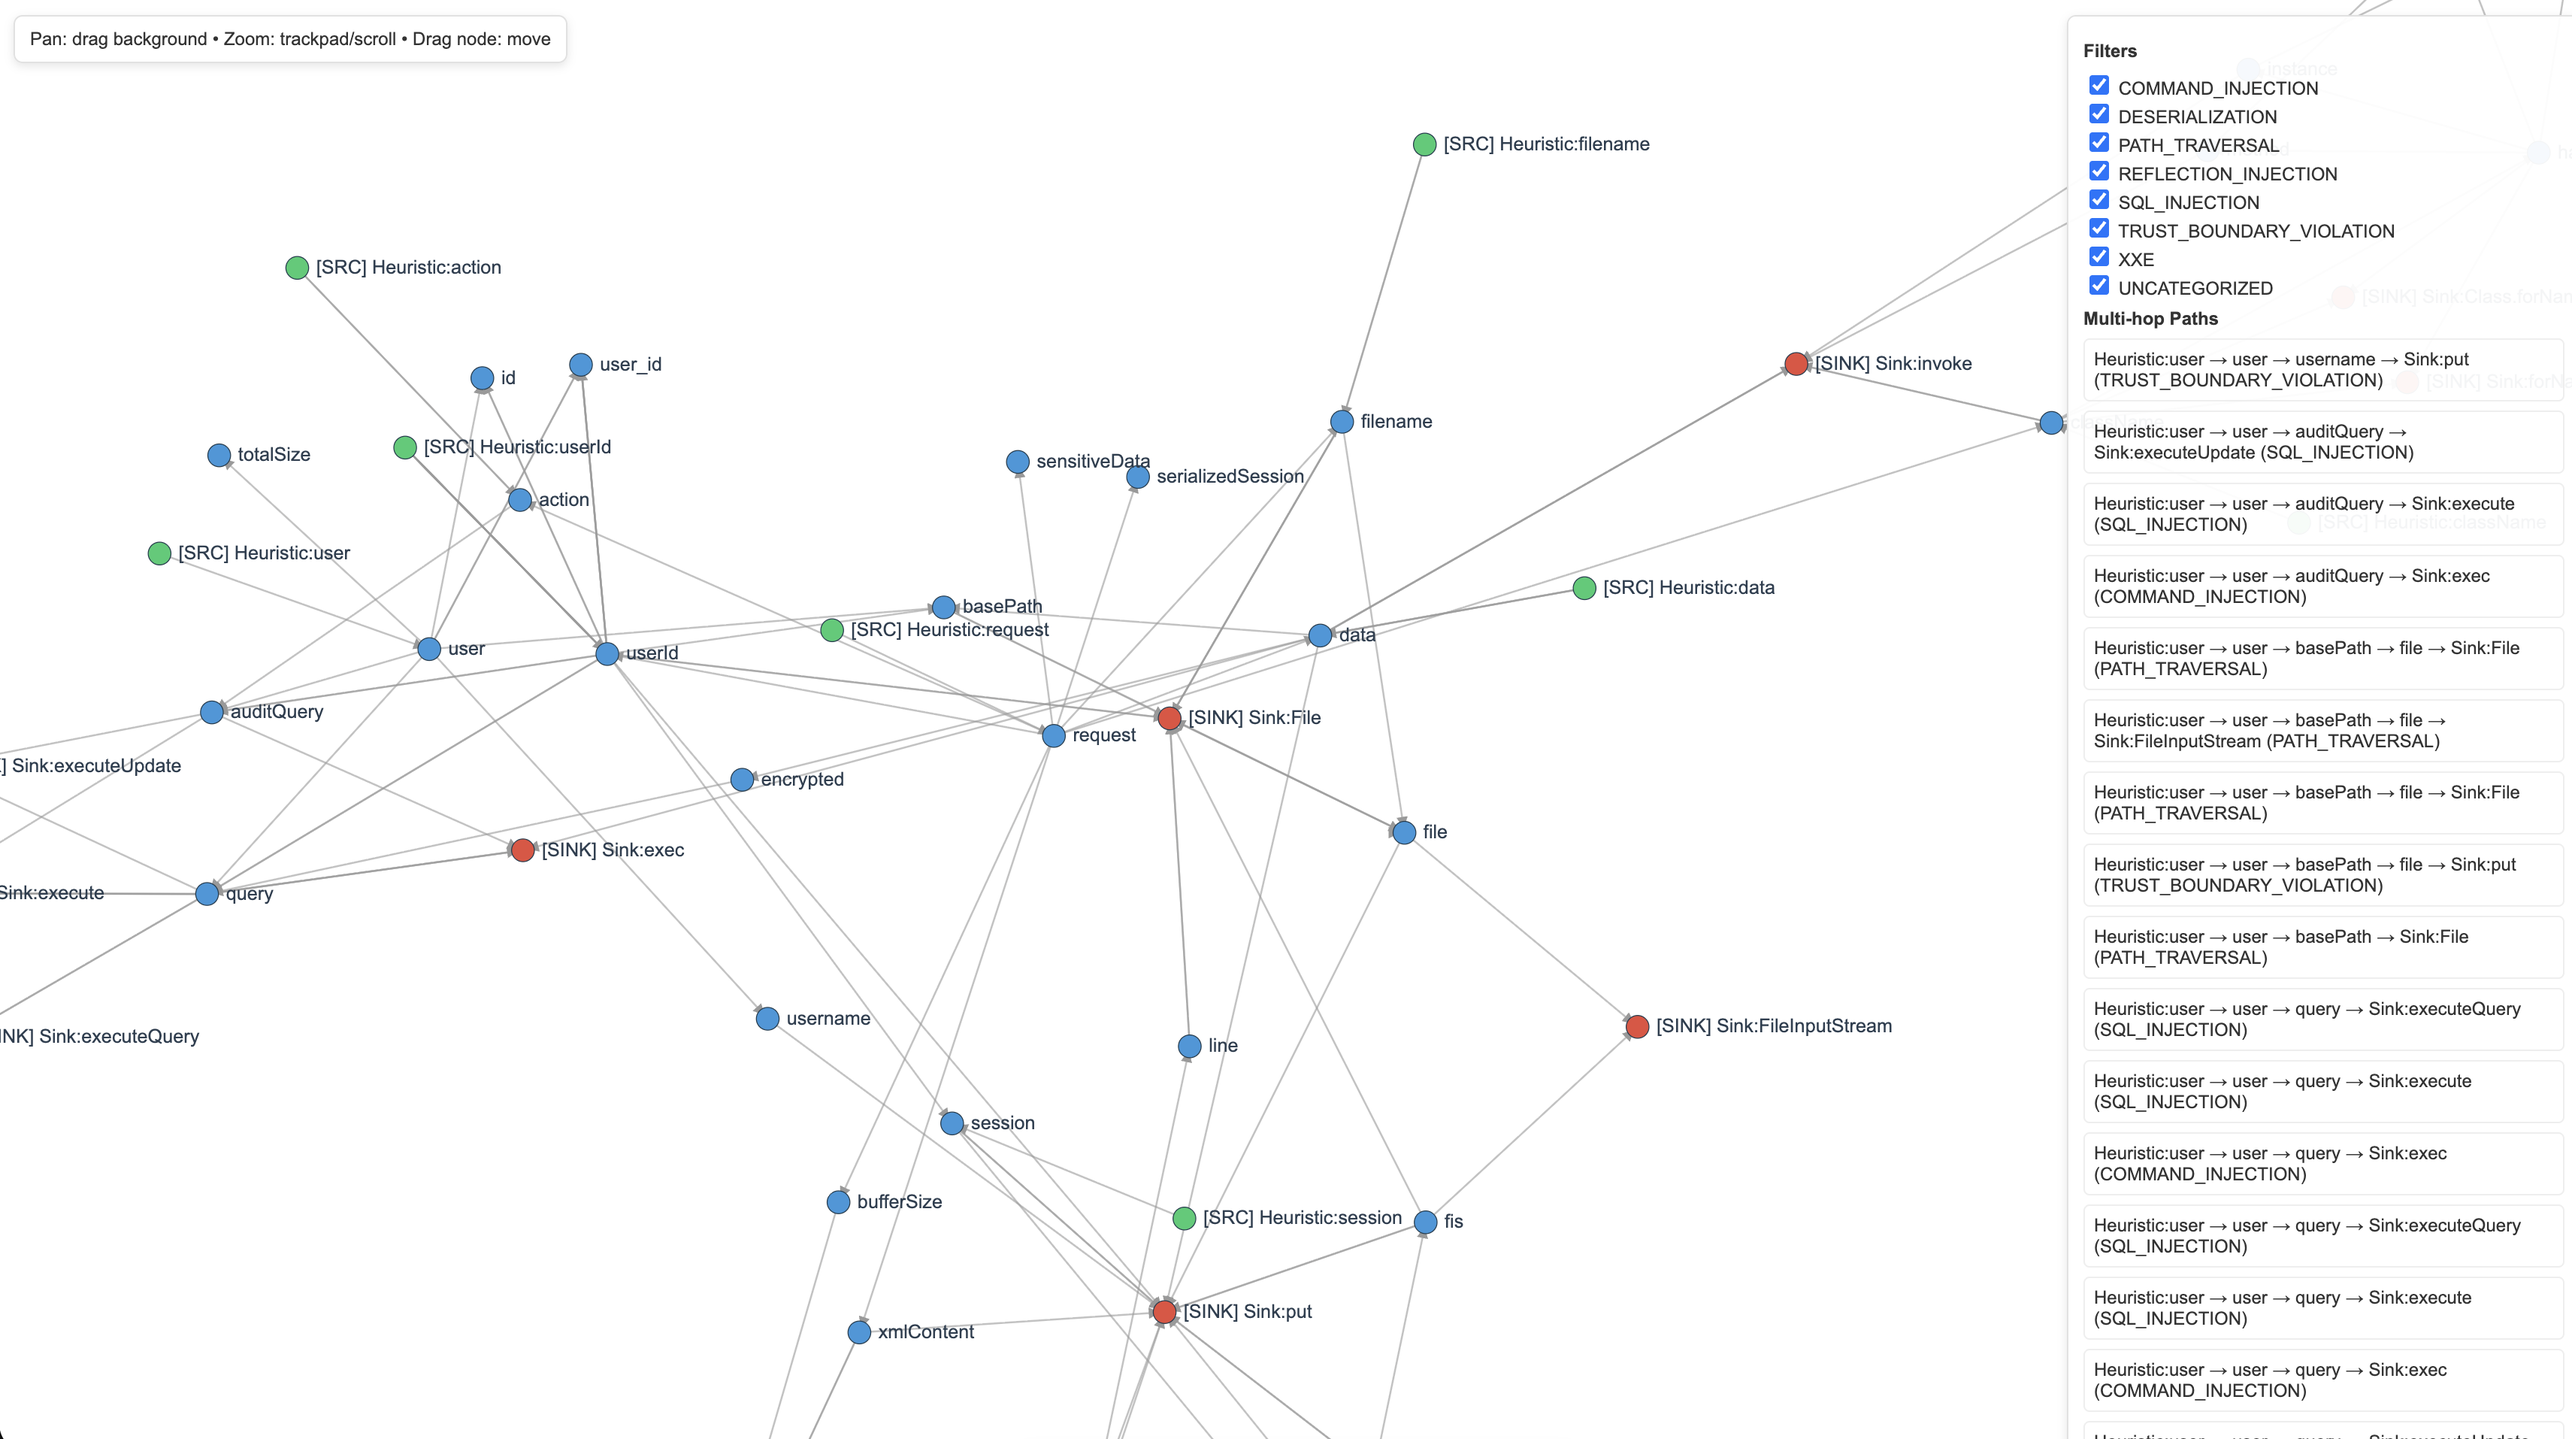
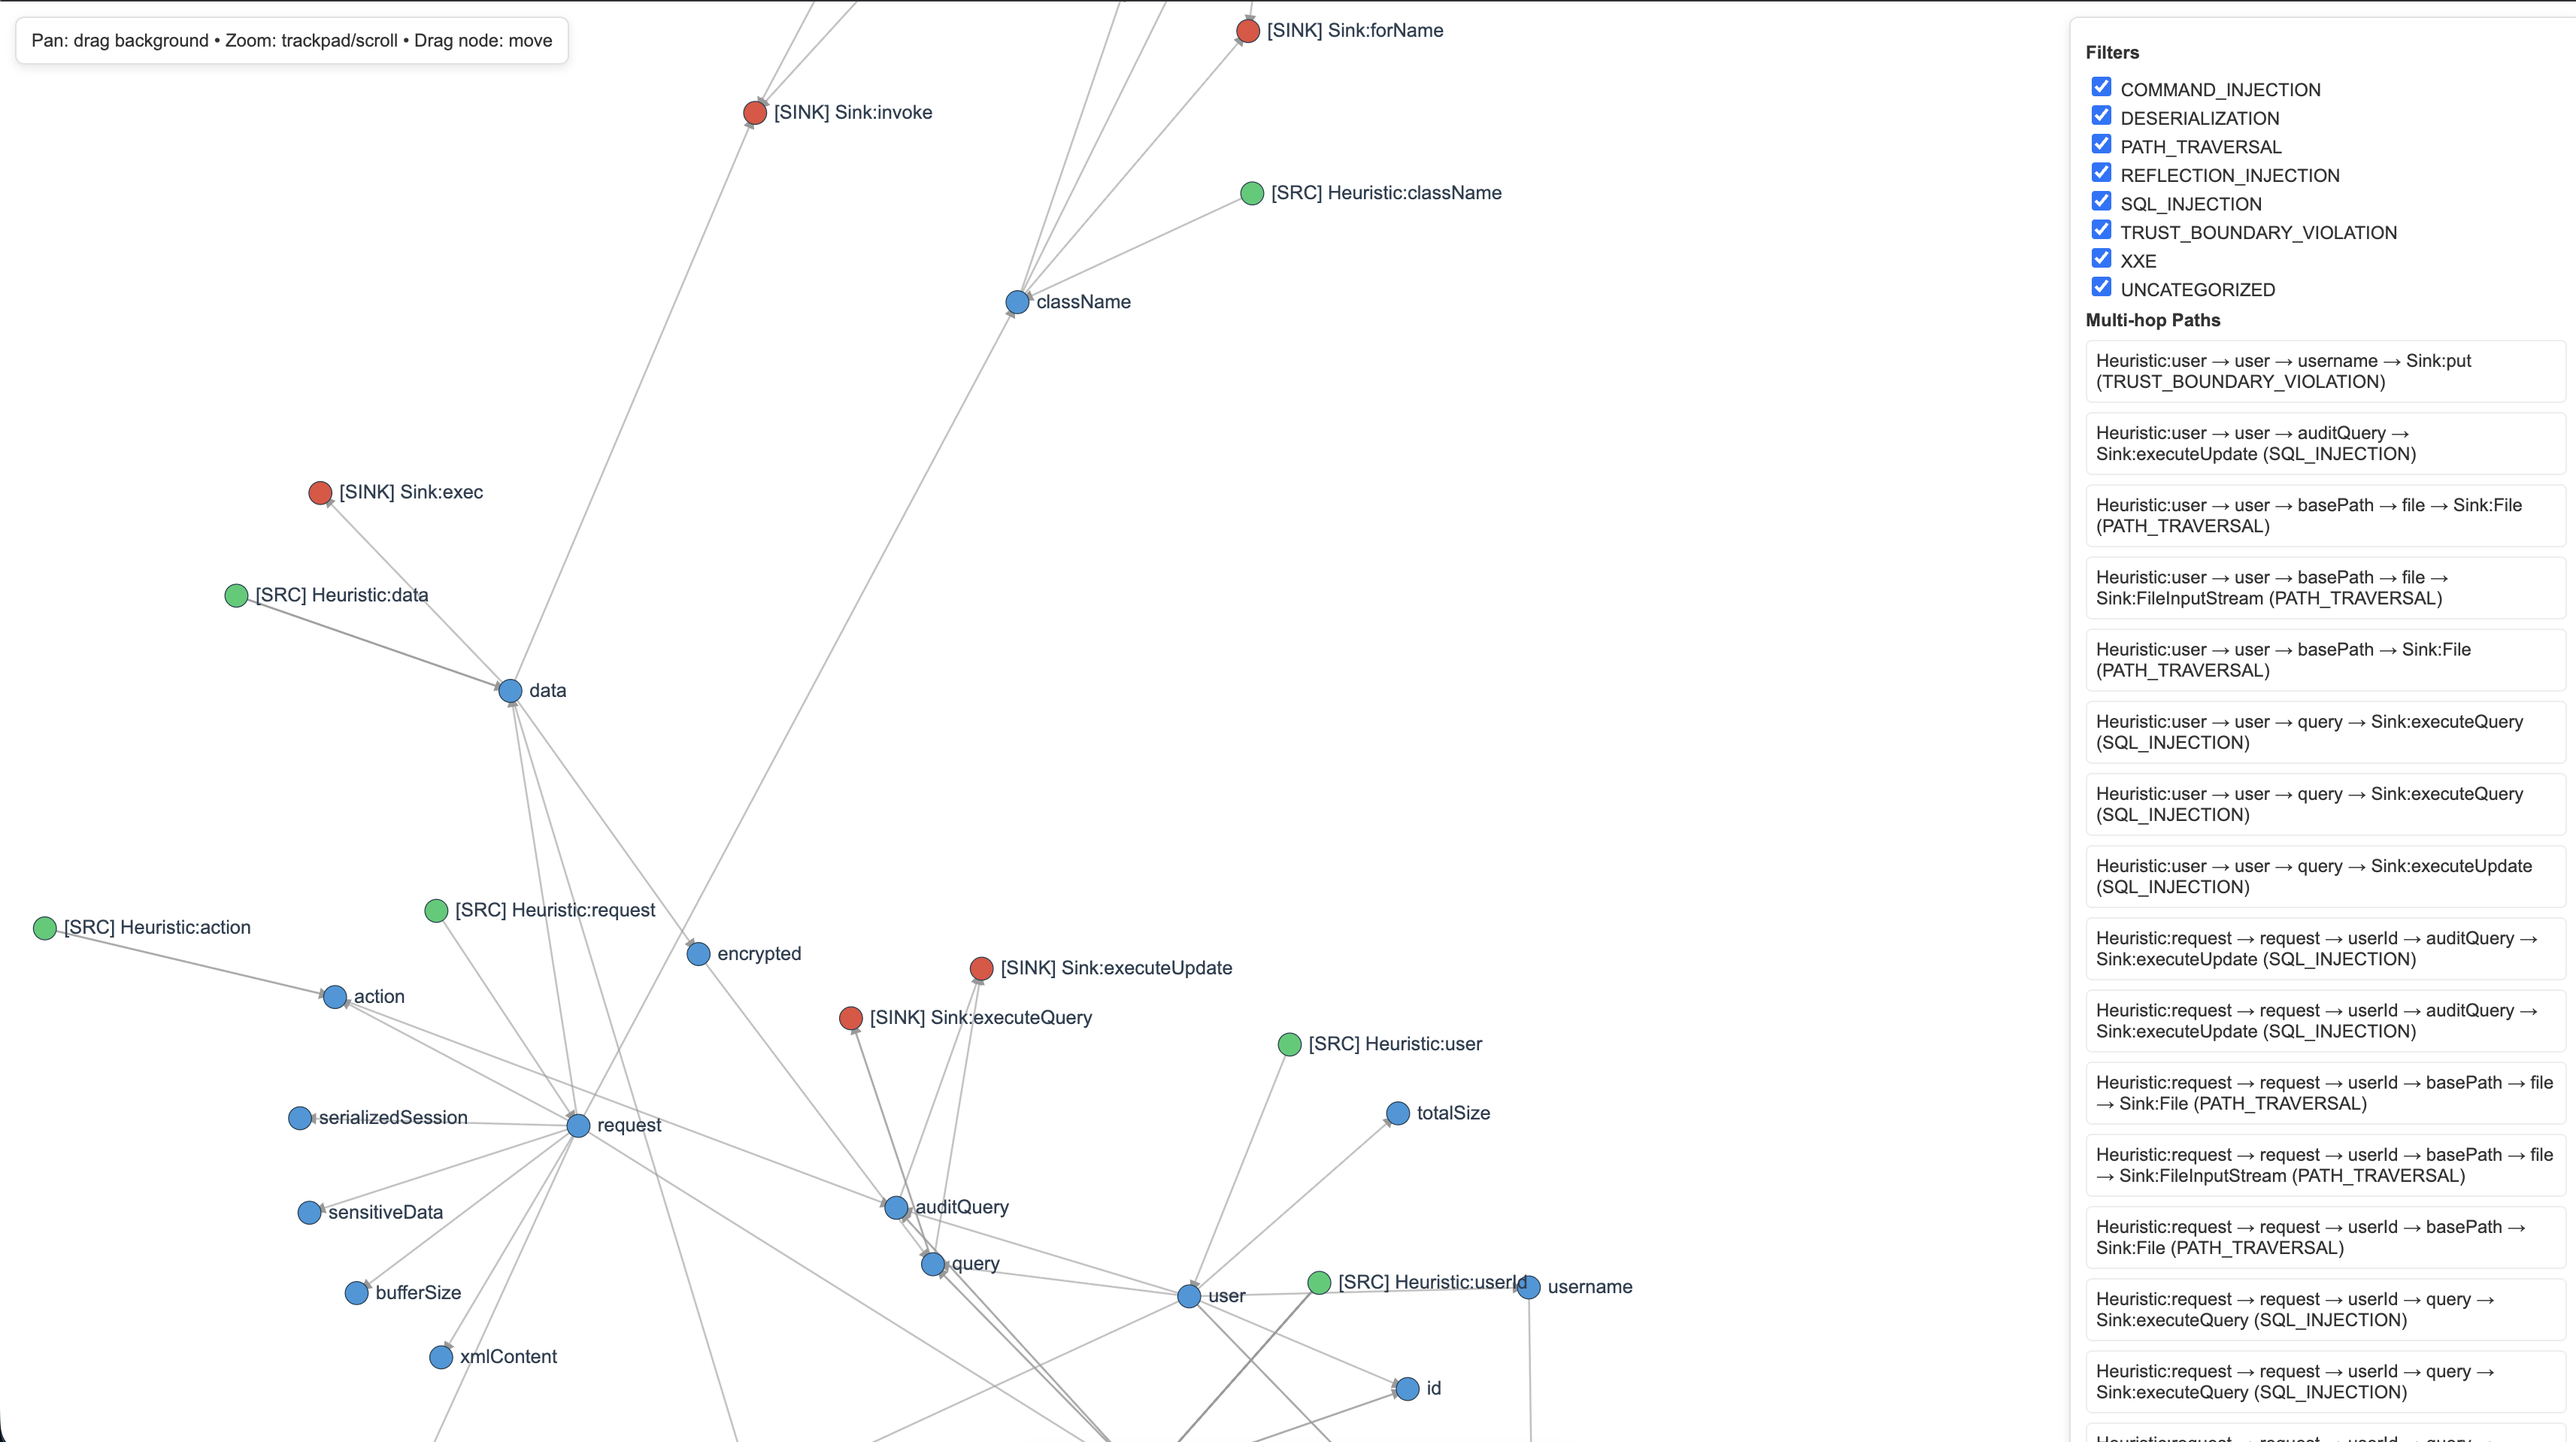
Fix: tighten sink matching and update taint graph image
Ensure sink detection uses whole-word matches and refresh the README screenshot asset for sources/sinks visualization.

diff --git a/src/core/comprehensive_taint_tracking.py b/src/core/comprehensive_taint_tracking.py
@@ -905,18 +905,19 @@ class ComprehensiveTaintTracker:
             if not tainted_in_line:
                 continue
             for sink_token, vuln_type in self.SINK_METHOD_TO_VULN.items():
-                if sink_token in line:
-                    sink_node = f"Sink:{sink_token}"
-                    for var in tainted_in_line:
-                        self._record_taint_edge(
-                            source=var,
-                            target=sink_node,
-                            line_number=i,
-                            kind="sink",
-                            reason=f"sink:{sink_token}",
-                            vuln_types=[vuln_type],
-                            target_role="sink",
-                        )
+                if not re.search(rf'\b{re.escape(sink_token)}\b', line):
+                    continue
+                sink_node = f"Sink:{sink_token}"
+                for var in tainted_in_line:
+                    self._record_taint_edge(
+                        source=var,
+                        target=sink_node,
+                        line_number=i,
+                        kind="sink",
+                        reason=f"sink:{sink_token}",
+                        vuln_types=[vuln_type],
+                        target_role="sink",
+                    )
             
     def _perform_alias_refinement(self):
         """Perform iterative alias refinement (PLDI 2024)"""
